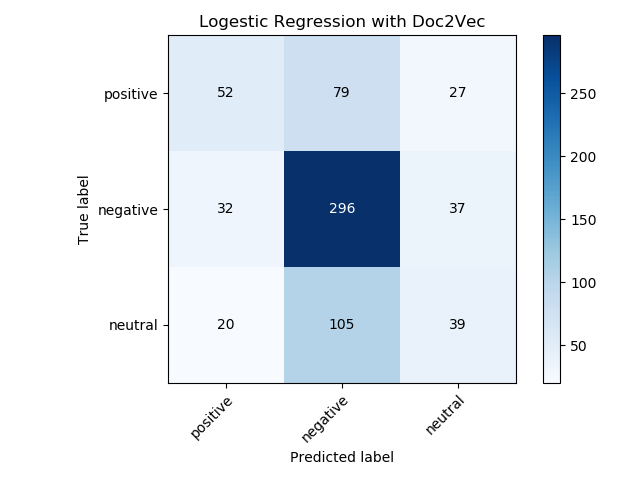
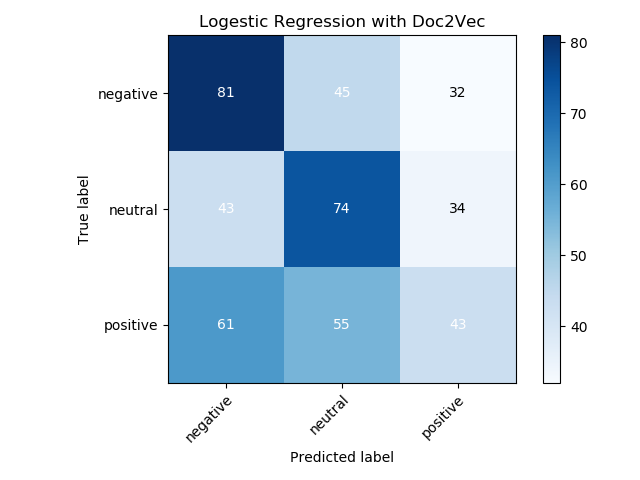
attempting to improve doc2vec. Apparently doesn't work with small documents. Stick to Naive Bayes, maybe try logistic regression.

diff --git a/src/runner.py b/src/runner.py
@@ -74,14 +74,14 @@ class Runner(object):
 
     def run_doc2vec_logreg(self):
         print("Running Logistic Regression Classification with Doc2Vec")
-        twitter = pd.read_csv('data/full-corpus.csv', encoding='utf-8')
+        twitter = pd.read_csv('../data/full-corpus.csv', encoding='utf-8')
         dfc = DF_Cleaner()
         viz = Visualizer()
         d2v = My_Doc2Vec()
 
         # Balancing and Train Test Split
         pos_df, neg_df, neutral_df, irr_df = dfc.get_sentiment_df(twitter)
-        balanced_df = dfc.balance_df([neg_df, neutral_df, irr_df], neg_df)
+        balanced_df = dfc.balance_df([neg_df, neutral_df], pos_df)
         train, test = train_test_split(balanced_df, test_size=0.3, random_state=42) 
 
         '''
@@ -100,21 +100,21 @@ class Runner(object):
         print('Testing accuracy %s' % accuracy_score(y_test, y_pred))
         print('Testing F1 score: {}'.format(f1_score(y_test, y_pred, average='weighted')))
 
-        d2v.pickle_model(logreg)
+        d2v.pickle_model(logreg, filepath='../models/doc2vec_logreg.pkl')
         viz.plot_confusion_matrix(y_test, y_pred, classes=['positive', 'negative', 'neutral', 'irrelevant'], \
                                   title='Logestic Regression with Doc2Vec')
-        plt.savefig('media/confusion_matrix/d2v_logreg_confmat.png')
+        plt.savefig('../media/confusion_matrix/d2v_logreg_confmat.png')
         plt.close()
 
     def run_doc2vec_naivebayes(self):
         print("Running Naive Bayes Classification with Doc2Vec")
-        twitter = pd.read_csv('data/full-corpus.csv', encoding='utf-8')
+        twitter = pd.read_csv('../data/full-corpus.csv', encoding='utf-8')
         dfc = DF_Cleaner()
         viz = Visualizer()
 
         # Balancing and Train Test Split
         pos_df, neg_df, neutral_df, irr_df = dfc.get_sentiment_df(twitter)
-        balanced_df = dfc.balance_df([neg_df, neutral_df, irr_df], neg_df)
+        balanced_df = dfc.balance_df([neg_df, neutral_df], pos_df)
         train, test = train_test_split(balanced_df, test_size=0.3, random_state=42) 
 
         '''
@@ -138,9 +138,9 @@ class Runner(object):
         print('Testing accuracy %s' % accuracy_score(y_test, y_pred))
         print('Testing F1 score: {}'.format(f1_score(y_test, y_pred, average='weighted')))
 
-        d2v.pickle_model(clf)
+        d2v.pickle_model(clf, filepath='../models/doc2vec_naive_bayes.pkl')
         viz.plot_confusion_matrix(y_test, y_pred, classes=['positive', 'negative', 'neutral', 'irrelevant'], \
                                   title='Guassian Navie Bayes with Doc2Vec')
-        plt.savefig('media/confusion_matrix/d2v_nb_confmat.png')
+        plt.savefig('../media/confusion_matrix/d2v_nb_confmat.png')
         plt.close()
 

diff --git a/src/my_doc2vec.py b/src/my_doc2vec.py
@@ -31,10 +31,11 @@ class My_Doc2Vec(object):
 
         for sent in nltk.sent_tokenize(text):
             for word in nltk.word_tokenize(sent):
-                if word not in stopwords:
-                    if len(word) < 2:
-                        continue
-                    tokens.append(self._lemmatize_stemming(word.lower()))
+                # if word not in stopwords:
+                if len(word) < 2:
+                    continue
+                # tokens.append(self._lemmatize_stemming(word.lower()))
+                tokens.append(word.lower())
         return tokens
 
 
@@ -46,7 +47,7 @@ class My_Doc2Vec(object):
 
     def create_model_and_vocab(self, train_tagged, cores = 2):
         # dbow stands for Distributed Bag of Words
-        self.model_dbow = Doc2Vec(dm=0, vector_size=30, negative=5, hs=0, min_count=2, sample = 0, workers=cores)
+        self.model_dbow = Doc2Vec(dm=0, vector_size=10, negative=5, hs=0, min_count=2, sample = 0, workers=cores)
         self.model_dbow.build_vocab([x for x in tqdm(train_tagged.values)])
 
 
@@ -57,7 +58,7 @@ class My_Doc2Vec(object):
             self.model_dbow.min_alpha = self.model_dbow.alpha
 
     
-    def pickle_model(self, clf, filepath='models/doc2vec_logreg.pkl'):
+    def pickle_model(self, clf, filepath='../models/doc2vec_logreg.pkl'):
         # Saving File
         with open(filepath, 'wb') as f:
             pickle.dump(clf, f)
@@ -68,7 +69,7 @@ class My_Doc2Vec(object):
     Do not use outside of this class!
     '''
     def _get_spanish_stopwords(self):
-        x = [line.rstrip() for line in open('src/stop_words/spanish.txt')]
+        x = [line.rstrip() for line in open('stop_words/spanish.txt')]
         return set(x)
 
     def _lemmatize_stemming(self, text):

diff --git a/src/main.py b/src/main.py
@@ -136,12 +136,12 @@ if __name__ == '__main__':
     runner = Runner()
 
     '''TF-IDF'''
-    runner.run_naive_bayes_sentiment()
+    # runner.run_naive_bayes_sentiment()
     # runner.run_naive_bayes_topic()
 
     '''Doc2Vec'''
-    # runner.run_doc2vec_logreg()
-    # runner.run_doc2vec_naivebayes()
+    runner.run_doc2vec_logreg()
+    runner.run_doc2vec_naivebayes()
 
     # twitter = pd.read_csv('data/full-corpus.csv', encoding='utf-8')
     # # corpus = twitter['TweetText'].to_numpy()
